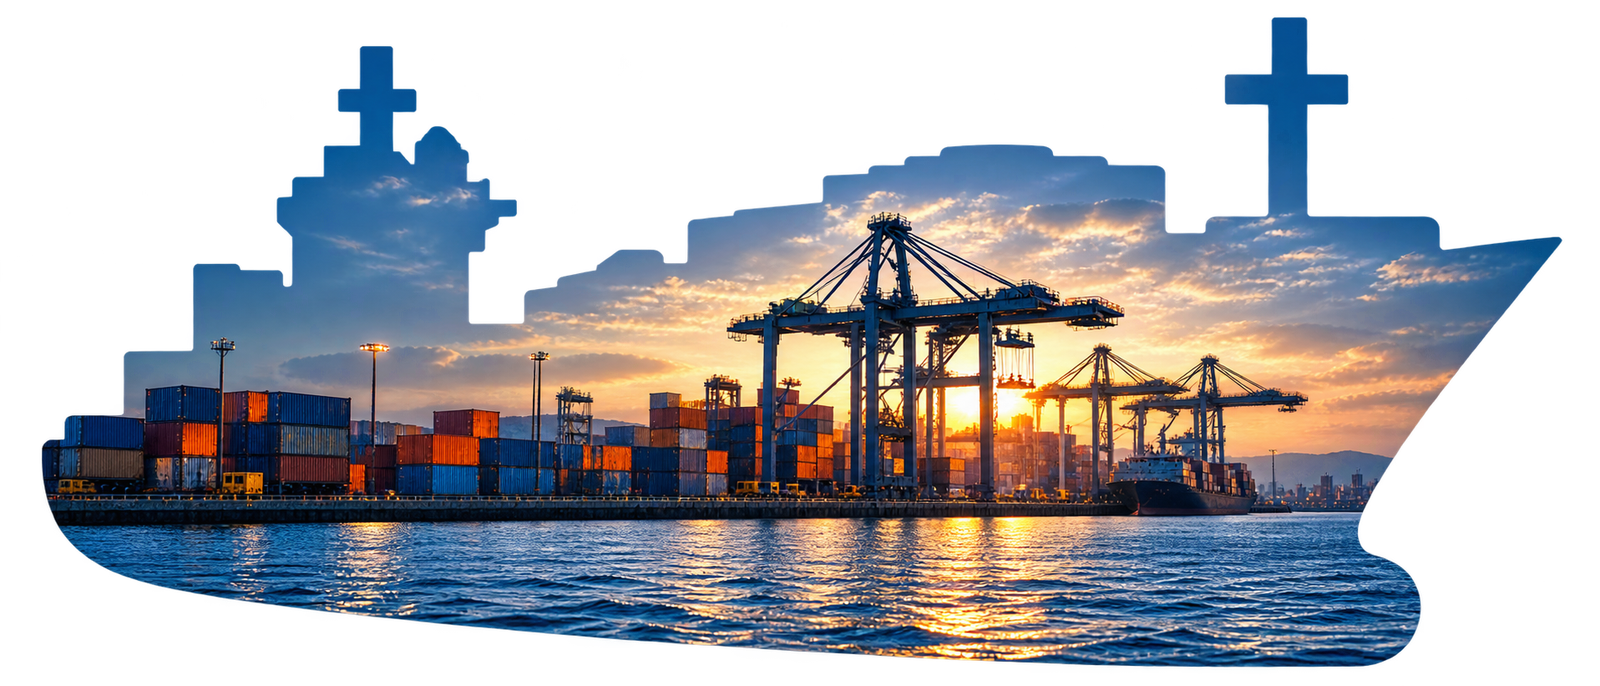
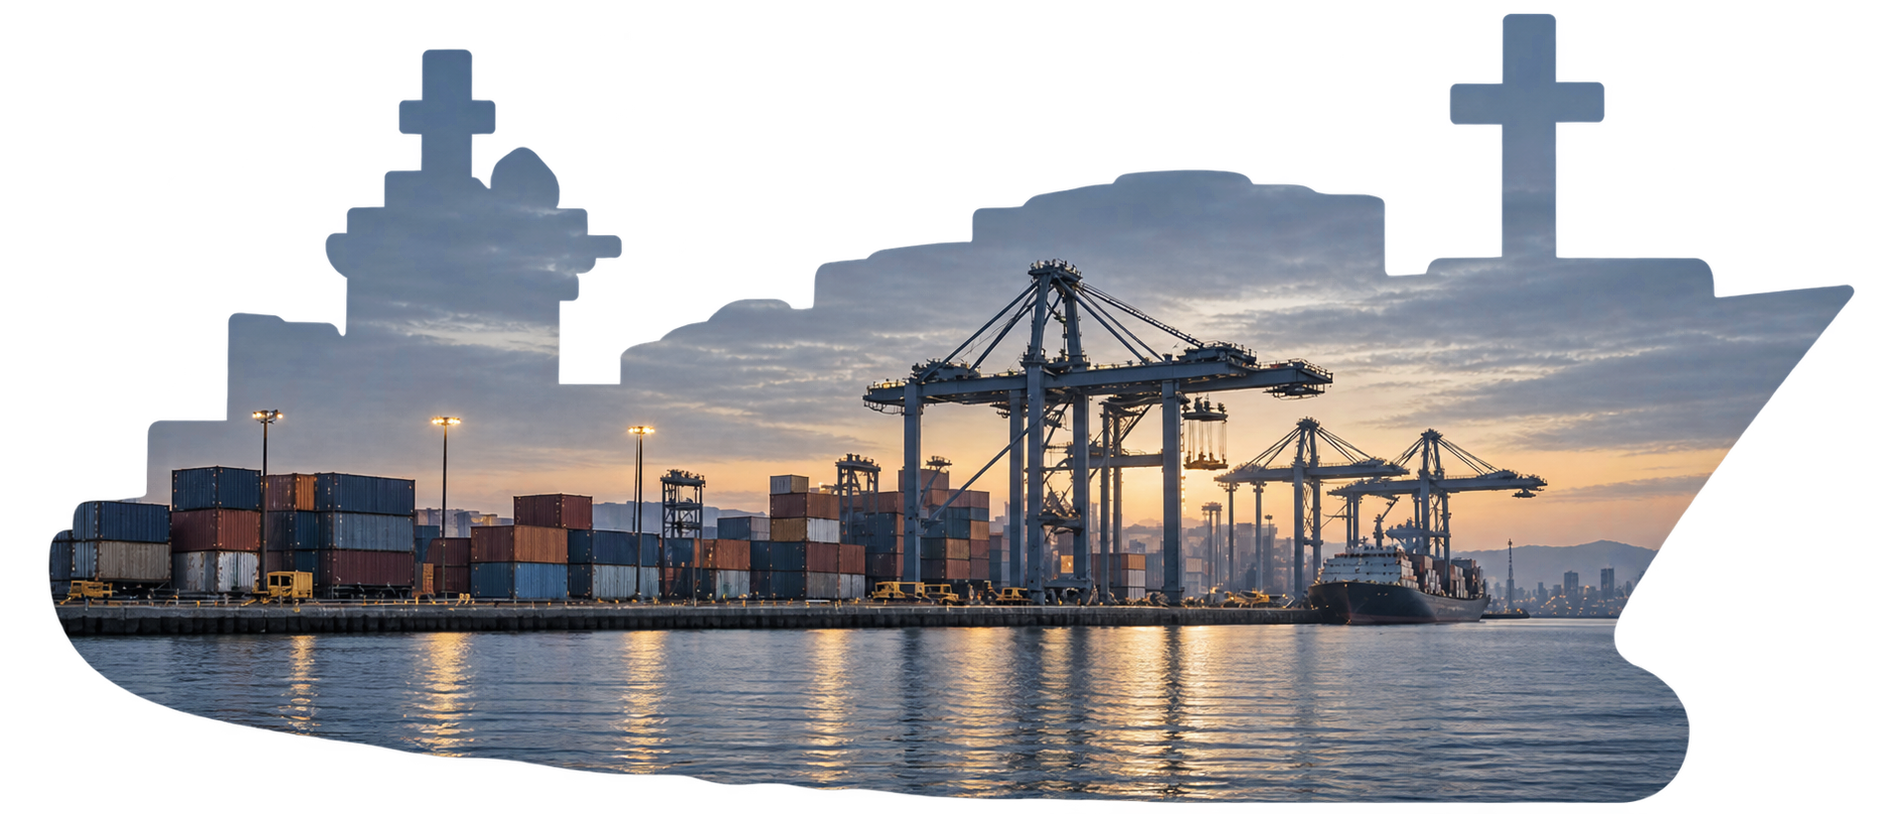
fix: the cut-out bleeds off the page, the pills close, and the copyright lands on the sky
Band 01 — the new cut-out, larger, running off the left edge. `w-[125%]` with a
matching negative margin is the whole mechanism: the grid still reserves one
column, the picture simply draws wider than the box it was given, and the
section clips it so nothing scrolls sideways. The stern is what leaves; the
bridge, the cranes and the bow stay on the page. The three words that sat on
the hull are gone, and their string with them.

Band 02 — the photographs are pills, closed at both ends rather than arched on
top and square underneath. Both that and the disc are `rounded-full` off the
same `--radius-full` the radio dots use; nothing new was added to the set.

The disc now sits UNDER the copy and is darker than the page. It was a studio
disc on a canvas ground — a shape lighter than the thing it sits on, which is
a shape nobody can see — and the paragraph fell outside it entirely. It is
`mist` on `studio`, anchored to the column with `-inset-*` so it cannot drift
off the text at some width.

The closing poster — the fade runs longer, in two stops: fully clear for the
first 6%, up to full by 19%, which is where the lettering starts. The section
is pulled up over the footer so the copyright line sits ON the faded sky.

That last one needed three attempts and the first two failed for the same
reason twice removed. The padding decides which strip of picture the line
lands on, and past 19% the photograph is opaque and the line vanishes behind
[…]

diff --git a/src/components/home/ExpertiseBand.tsx b/src/components/home/ExpertiseBand.tsx
@@ -4,41 +4,38 @@ import { useT } from "../shell/LocaleProvider";
 import { Lines } from "../ui/Lines";
 
 /**
- * A photograph cut on the opposite diagonal to the hero, with three words up
- * against its lower-left corner, and a dark label chip opening the copy on the
- * right. All three devices are from the comp.
+ * The port inside a vessel-shaped cut-out, and a dark label chip opening the
+ * copy beside it.
  *
- * The chip is the useful one: charcoal fill, studio type, and it gives a
- * heading a hard left edge to start from without inventing a rule weight.
+ * The three words that sat on the hull are gone. The chip is the device worth
+ * keeping: charcoal fill, studio type, and it gives a heading a hard left edge
+ * to start from without inventing a rule weight.
  */
 export function ExpertiseBand() {
   const t = useT();
   return (
-    <section className="bg-studio">
-      <div className="mx-auto grid max-w-[86rem] items-center gap-10 px-6 py-20 lg:grid-cols-[minmax(0,1fr)_minmax(0,26rem)] lg:gap-16">
-        <div className="relative isolate">
-          {/* The port, inside a vessel-shaped cut-out. It arrives with its
-              own alpha channel, so there is no mask to maintain here and no
-              clip path to keep in step with the artwork. */}
+    <section className="overflow-hidden bg-studio">
+      <div className="mx-auto grid max-w-[86rem] items-center gap-10 px-6 py-20 lg:grid-cols-[minmax(0,1fr)_minmax(0,24rem)] lg:gap-12">
+        {/*
+          The cut-out runs off the left edge of the page.
+
+          `w-[125%]` with a matching negative margin is the whole mechanism: the
+          grid still reserves one column's worth of space, and the picture
+          simply draws wider than the box it was given. The section clips it, so
+          nothing scrolls sideways. The stern is the part that leaves — the
+          bridge, the cranes and the bow, which is everything worth looking at,
+          stay on the page.
+
+          It arrives with its own alpha channel, so there is no mask to maintain
+          here and no clip path to keep in step with the artwork.
+        */}
+        <div className="-ml-[18%] w-[118%] lg:-ml-[22%] lg:w-[125%]">
           {/* eslint-disable-next-line @next/next/no-img-element */}
           <img
             src="/assets/spot/17-vessel-silhouette.png"
             alt=""
             className="w-full"
           />
-          {/*
-            Placed in percentages, over the hull.
-
-            The cut-out has an alpha channel, so most of this box is the page
-            showing through and white type would simply vanish there. The band
-            from 5-35% across and 55-80% down is the containers and the hull:
-            98% opaque, mean luminance 63. Anchoring in percentages keeps the
-            words on that mass as the image scales, which a fixed bottom-left
-            offset did not — at this width it put them below the waterline.
-          */}
-          <p className="absolute left-[7%] top-[54%] z-10 max-w-[12ch] type-section text-studio sm:type-page">
-            <Lines text={t("home.expertise.over")} />
-          </p>
         </div>
 
         <div>

diff --git a/src/components/home/JourneyStrip.tsx b/src/components/home/JourneyStrip.tsx
@@ -6,12 +6,17 @@ import { useT } from "../shell/LocaleProvider";
 import { Lines } from "../ui/Lines";
 
 /**
- * Three arch-topped photographs and a paragraph, on a canvas ground with one
- * very large soft shape behind the copy — the comp's arrangement.
+ * Three photographs cut as pills, and a paragraph seated inside a large disc —
+ * the comp's arrangement.
  *
- * The arch is `rounded-t-full`, which resolves from the same `--radius-full`
- * the radio dots use. It is not a fourth radius; it is the third one applied
- * to two corners.
+ * Both shapes are `rounded-full` resolving from the same `--radius-full` the
+ * radio dots use. Nothing new: the pill is that radius on a 3:4 box, and the
+ * disc is that radius on a square one.
+ *
+ * The disc sits UNDER the copy rather than beside it, and it is darker than
+ * the page rather than lighter. The first cut had a studio disc on a canvas
+ * ground — a shape lighter than what it sits on, which is a shape nobody can
+ * see — and the paragraph fell outside it entirely.
  */
 /*
  * Three photographs of the same kind — a phone mid-quote, a laptop showing a
@@ -28,18 +33,12 @@ const STEPS = [
 export function JourneyStrip() {
   const t = useT();
   return (
-    <section className="relative isolate overflow-hidden border-t border-border bg-canvas">
-      {/* The pale disc behind the right-hand copy. Flat fill, no gradient. */}
-      <div
-        aria-hidden
-        className="absolute -right-40 top-10 -z-10 hidden h-[38rem] w-[38rem] bg-studio rounded-full lg:block"
-      />
-
-      <div className="mx-auto grid max-w-[86rem] items-center gap-12 px-6 py-20 lg:grid-cols-[minmax(0,1fr)_minmax(0,24rem)] lg:gap-16">
+    <section className="relative isolate overflow-hidden border-t border-border bg-studio">
+      <div className="mx-auto grid max-w-[86rem] items-center gap-12 px-6 py-20 lg:grid-cols-[minmax(0,1fr)_minmax(0,26rem)] lg:gap-16">
         <ol className="grid gap-6 sm:grid-cols-3">
           {STEPS.map((step) => (
             <li key={step.id} className="flex flex-col">
-              <div className="overflow-hidden bg-studio rounded-t-full rounded-b-card shadow-card">
+              <div className="overflow-hidden bg-studio rounded-full shadow-card">
                 {/* eslint-disable-next-line @next/next/no-img-element */}
                 <img
                   src={step.src}
@@ -55,7 +54,14 @@ export function JourneyStrip() {
           ))}
         </ol>
 
-        <div>
+        {/* The disc is the copy's own ground, so it moves with the column and
+            cannot drift off it at some width. `-inset-*` lets it bleed past
+            the text on every side without changing what the grid reserves. */}
+        <div className="relative isolate">
+          <div
+            aria-hidden
+            className="absolute -inset-x-10 -inset-y-16 -z-10 hidden bg-mist rounded-full lg:block"
+          />
           <span aria-hidden className="block h-0.5 w-10 bg-crimson" />
           <h2 className="mt-5 type-page">
             <Lines text={t("home.journey.title")} />

diff --git a/src/app/globals.css b/src/app/globals.css
@@ -507,13 +507,24 @@
  * picture's own top edge so a full-bleed band does not meet the page on a hard
  * horizontal line.
  *
- * It stops at 16%. The closing poster carries its lettering from 20% down, and
- * a fade that ran past that would eat the top of the letterforms — the seam
- * would be gone and the word would be broken instead.
+ * Two stops rather than one. The picture is invisible for the first 6%, which
+ * is the strip the footer is pulled down over, and then comes up to full by
+ * 19%. The closing poster carries its lettering from 20% down: the ramp has to
+ * finish before that or the seam is gone and the word is broken instead.
  */
 @utility photo-join-t {
-  -webkit-mask-image: linear-gradient(to bottom, transparent 0%, #000 16%);
-  mask-image: linear-gradient(to bottom, transparent 0%, #000 16%);
+  -webkit-mask-image: linear-gradient(
+    to bottom,
+    transparent 0%,
+    transparent 6%,
+    #000 19%
+  );
+  mask-image: linear-gradient(
+    to bottom,
+    transparent 0%,
+    transparent 6%,
+    #000 19%
+  );
 }
 
 @utility scrim-l {

diff --git a/src/components/home/WordmarkBand.tsx b/src/components/home/WordmarkBand.tsx
@@ -27,7 +27,20 @@ export function WordmarkBand() {
   if (usePathname() !== "/") return null;
 
   return (
-    <section className="bg-studio">
+    /*
+     * Pulled up under the footer rather than stacked below it.
+     *
+     * The top of the picture is transparent, so the footer's last rows read
+     * straight through it and the two do not so much meet as overlap. The
+     * negative margin is the whole mechanism: `relative` and a z-index are not
+     * needed, because a transparent pixel hides nothing.
+     *
+     * The section carries NO background of its own. It had `bg-studio`, which
+     * is an opaque white fill painted over the footer — so the picture's
+     * transparent top revealed that fill rather than the copyright line
+     * underneath it, and the overlap did nothing at all.
+     */
+    <section className="-mt-40 lg:-mt-52">
       {/* eslint-disable-next-line @next/next/no-img-element */}
       <img
         src="/assets/banners/08-vessel-wordmark.jpg"

diff --git a/src/components/shell/SiteFooter.tsx b/src/components/shell/SiteFooter.tsx
@@ -111,7 +111,15 @@ export function SiteFooter() {
         </div>
       </div>
 
-      <p className="pb-10 text-center type-caption">
+      {/*
+        The line sits ON the poster's faded sky.
+
+        Which strip of the picture it lands on is (overlap − this padding), and
+        it has to come out inside the mask's ramp: past 19% the photograph is
+        opaque and the line simply disappears behind it, which is where the
+        first two attempts put it.
+      */}
+      <p className="pb-24 text-center type-caption lg:pb-32">
         {t("footer.copyright", { year: BRAND.year, brand: BRAND.full })}
       </p>
     </footer>
